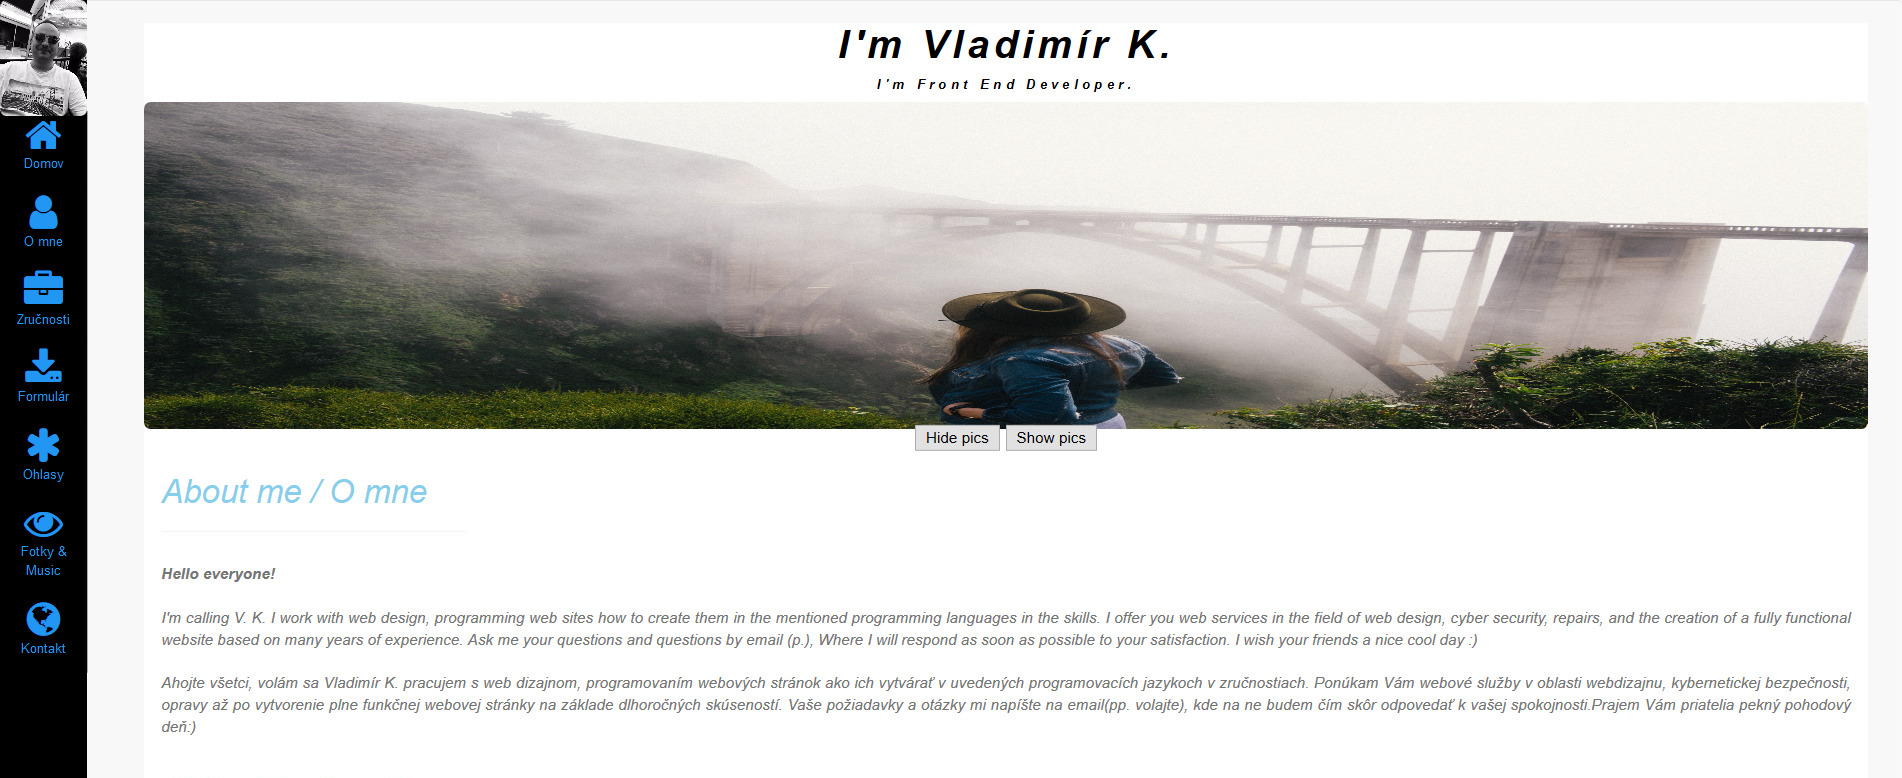
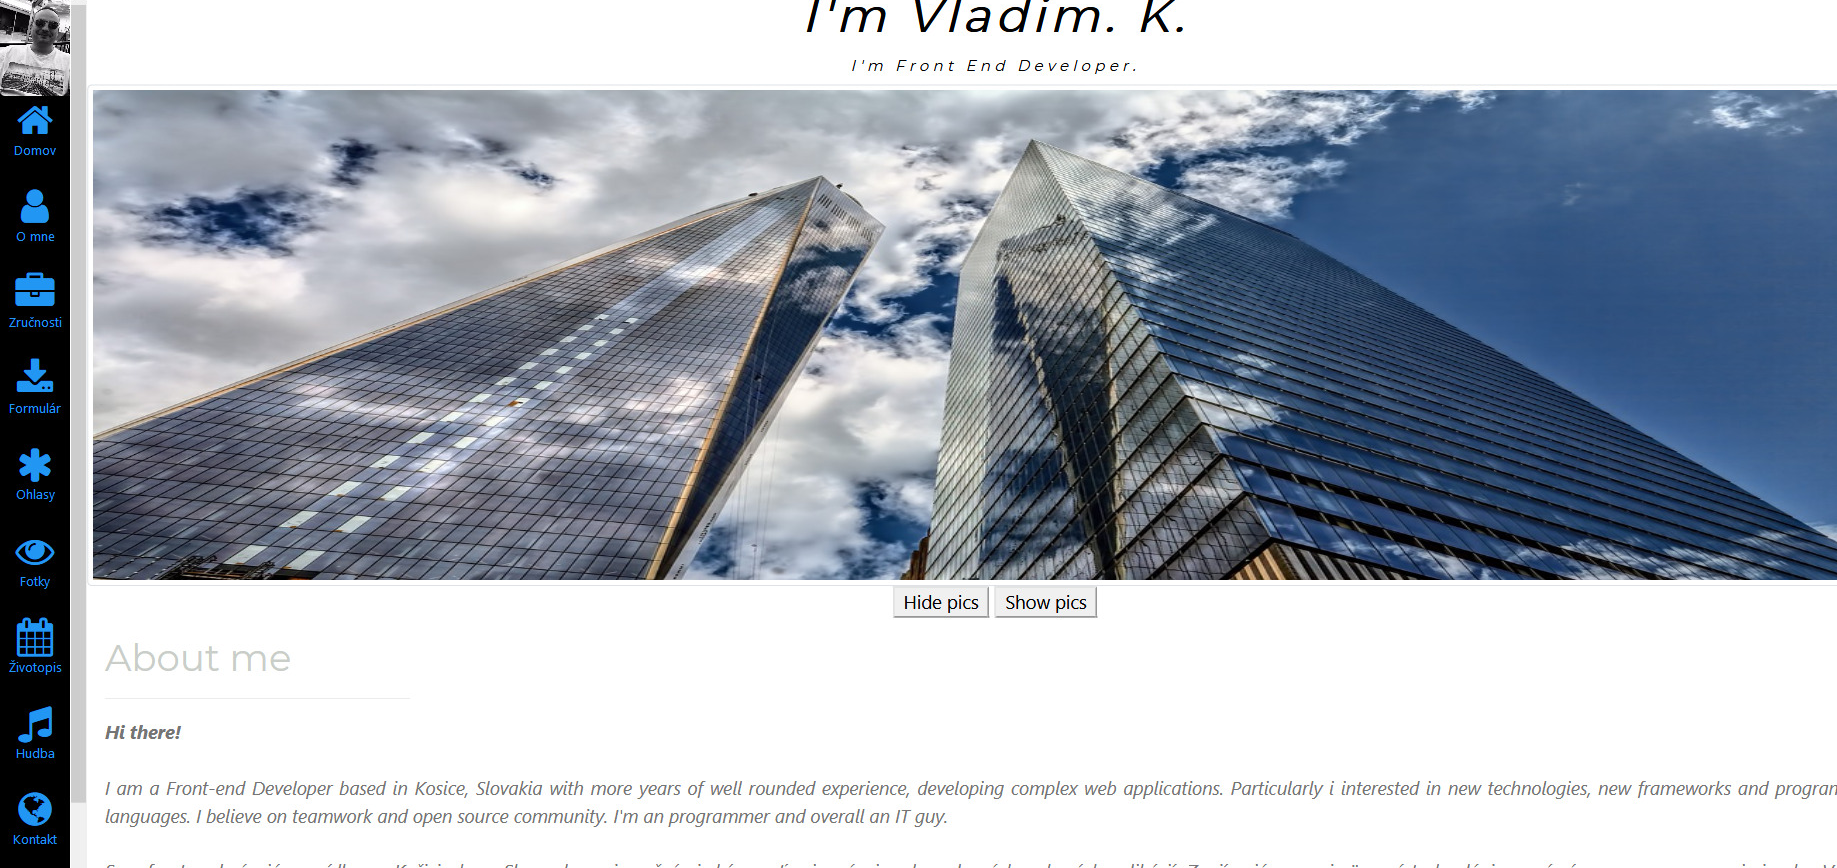
fixit 16.7.2019

diff --git a/index.html b/index.html
@@ -105,7 +105,8 @@ font-family: 'Roboto Condensed', sans-serif;
 		footer {
 			background-color: black;
 			color: white;
-			padding: 10px;
+			padding: 15px;
+
 		}
 
 		/* On small screens, set height to 'auto' for sidenav and grid */
@@ -214,7 +215,7 @@ font-family: 'Roboto Condensed', sans-serif;
 							<li class="dropdown">
 
 							<li class="active"><a class="w3-bar-item w3-button w3-padding-xsmall   w3-hover-yellow w3-text-light-blue " href="#hudba" title=" Viete prečo treba mať kompas a nie hodinky? • Pozrite si webinár ako si správne rozložiť svoj čas podla metody GTD • Vypočujte si Awesome Music z YouTube">
-									<i class="fa fa-youtube w3-large"> Hudba/ Awesome Music!</i></a></li>
+									<i class="fa fa-youtube w3-large"> Hudba/ Music!</i></a></li>
 							<li class="dropdown">
 							<li class="active">
 								<!--a class="w3-bar-item w3-button w3-padding-xsmall w3-hover-yellow w3-text-light-blue " href="#formular" >
@@ -240,9 +241,9 @@ font-family: 'Roboto Condensed', sans-serif;
 									<img src="./Image/Layer%200.png" style="width:58px;height:15px" alt="Firefox Mozilla • Fights for family privacy •Technology"> Firefox Mozilla</a></li>
 							<li>
 							<li>
-								<!--li class="active"><a href="" class="w3-padding-xsmall  w3-text-light-blue w3-hover-yellow" title="Ukážka môjho webu V.K • Vytvorenie funkčnej webovej stránky"><img src="./Image/jolana1.github.io-PageTitle.png" style="width:58px;height:15px" alt="Me"> Ukážka webu V.K.</a></li>
+								<li class="active"><a href="https://jolana1.github.io/ladoweb/#Domov" class="w3-padding-xsmall  w3-text-light-blue w3-hover-yellow" title="Ukážka môjho webu V.K • Vytvorenie funkčnej webovej stránky"><img src="./Image/jolana1.github.io-%C2%A9ladoweb.png" style="width:58px;height:15px" alt="Me"> Ukážka webu V.K.</a></li>
 
-							<li class="active"><a href="" target="_blank" title="Tanzanite-Gems-Cultural-Tourism • Walking cultural tourism • Your all welcome to make a dreams • We do hiking mountain Kilimanjaro  ">
+							<!--li class="active"><a href="" target="_blank" title="Tanzanite-Gems-Cultural-Tourism • Walking cultural tourism • Your all welcome to make a dreams • We do hiking mountain Kilimanjaro  ">
 									<img src="../WebServis/Image/tanzania/IMG_4116.JPG" style="width:58px;height:15px" class="w3-padding-xsmall  w3-text-light-blue w3-hover-yellow img-rounded" alt=""> Tanzanite-Gems-CT</a></li-->
 						</ul>
 					</li>
@@ -267,7 +268,7 @@ font-family: 'Roboto Condensed', sans-serif;
 						</ul>
 
 
-						<!--li><a href="" title="Tanzanite-Gems-Cultural-Tourism • Walking cultural tourism • Your all welcome to make a dreams • We do hiking mountain Kilimanjaro  " border="0"><img src="./Image/Tanzanite.jpg" width="58px" height="15px" class="img-rounded"  > Tanzanite-Gems-Cultural-Tourism</a></li>
+						<li><a href="" title="Tanzanite-Gems-Cultural-Tourism • Walking cultural tourism • Your all welcome to make a dreams • We do hiking mountain Kilimanjaro  " border="0"><img src="./Image/Tanzanite.jpg" width="58px" height="15px" class="img-rounded"  > Tanzanite-Gems-Cultural-Tourism</a></li>
 
 					<li class="active">
 						<a href="#Cenník" class="w3-bar-item w3-padding-xsmall  w3-text-light-blue w3-hover-yellow img-rounded" title="Price list"><span class="glyphicon glyphicon-log-in w3-hover-text-green w3-small"></span> Price list</a></li>
@@ -367,7 +368,7 @@ font-family: 'Roboto Condensed', sans-serif;
 
 
 	<!-- Page Container -->
-	<div class="content" style="max-width:px">
+	<div class="w3-content" style="max-width:px">
 
 <script>
 			$(document).ready(function() {
@@ -482,25 +483,25 @@ font-family: 'Roboto Condensed', sans-serif;
 							<img src="./Image/bg1.jpg" alt="" style="width:100%;height:440px" title="Som Front-end Developer so sídlom v Košiciach na Slovensku s viacročnými skúsenosťami, vyvíjajúc komplexné webové stránky."></div>
 						<div class="item">
 
-				<img src="./Image/bg3.jpg" alt="" style="width:100%;height:440px" title="Vitajte na stránke spoločnosti ©LadoWebServis • ©Ladoweb • Ashampoo • Krížovkársky slovník • Pikatec •  Tanzanite Gems CT • Mozilla firefox "></div>
+				<img src="./Image/bg2.jpg" alt="" style="width:100%;height:440px" title="Vitajte na stránke spoločnosti ©LadoWebServis • ©Ladoweb • Ashampoo • Krížovkársky slovník • Pikatec •  Tanzanite Gems CT • Mozilla firefox "></div>
 
 					<div class="item">
-							<img src="./Image/IMG_1320-EFFECTS.jpg" alt="png" style="width:100%;height:440px" title="•Welcome to the ©LadoWebServis, we offer web design services and the creation of a fully functional website. We build better and more responsive web sites,internet shops, etc. We have many years of experience in web security, as evidenced by our partners and their great products (in the Partners section) .Please check out this site, contact us if you are interested."></div>
+							<img src="./Image/b0ec08912e35316eb093bf286f6c1096.jpg" alt="png" style="width:100%;height:440px" title="•Welcome to the ©LadoWebServis, we offer web design services and the creation of a fully functional website. We build better and more responsive web sites,internet shops, etc. We have many years of experience in web security, as evidenced by our partners and their great products (in the Partners section) .Please check out this site, contact us if you are interested."></div>
 
 						<div class="item">
-							<img src="./Image/photo-1461722936851-13a79b294a5d.jpeg" alt="" style="width:100%;height:440px" title="intro">
+							<img src="./Image/puzzle-3223941_1920.jpg" alt="" style="width:100%;height:440px" title="intro">
 						</div>
 						<div class="item">
 							<img src="./Image/skusenosti.jpg" alt="" style="width:100%;height:440px" title="webtech">
 						</div>
 						<div class="item">
-							<img src="./Image/bg2.jpg" alt="" style="width:100%;height:440px" title="webtech ">
+							<img src="./Image/photo-1461722936851-13a79b294a5d.jpeg" alt="" style="width:100%;height:440px" title="webtech ">
 						</div>
 
 						<div class="item">
-								<img src="./Image/jolana1.github.io-PageTitle.png" alt="" style="width:100%;height:440px" title="ukažka webu ">
+								<img src="./Image/pagePiling-plugin.png" alt="" style="width:100%;height:440px" title="ukažka webu"  >
 						</div><div class="item">
-								<img src="./Image/puzzle-3223941_1920.jpg" alt="" style="width:100%;height:440px" title="puzzle ">
+								<img src="./Image/jolana1.github.io-©ladoweb.png" alt="" style="width:100%;height:440px" title="Som Front-end Developer so sídlom v Košiciach na Slovensku s viacročnými skúsenosťami, vyvíjajúc komplexné webové stránky." >
 						</div>
 
 
@@ -521,7 +522,7 @@ font-family: 'Roboto Condensed', sans-serif;
 
 			<!-- About Section -->
 
-<div class="container-fluid w3-left w3-justify w3-padding-60" id="Onás">
+<div class="w3-content w3-left w3-justify w3-padding-60" id="Onás">
 <h4 class="w3-center w3-hover-white ">
 	<br>
 	<b><strong>Welcome to the ©LadoWebServis, we offer web design services and the creation of a fully functional website. We build better and more responsive web sites,internet shops, etc. We have many years of experience in web security, as evidenced by our partners and their great products (in the Partners section) .Please check out this site , you can choose between Basic or Pro offer.<br> Please contact us if you are interested or liked this web.</strong></b>
@@ -649,7 +650,7 @@ font-family: 'Roboto Condensed', sans-serif;
 
 <br>
 
-				<div class="container-fluid w3-text-grey w3-padding-60" id="Cenník">
+				<div class="w3-content w3-text-grey w3-padding-60" id="Cenník">
 					<h4 class="w3-center w3-hover-white ">WebServis Pricing tables, you can choose between Basic or Pro offer!</h4>
 					<hr style="width:px" class="w3-opacity">
 					<div class="w3-row-padding-24" style="margin:0 -16px">
@@ -710,7 +711,7 @@ font-family: 'Roboto Condensed', sans-serif;
 							<hr style="width:px" class="w3-opacity">
 							<img src="./Image/john_doe.jpg" class="w3-margin w3-circle  w3-text-grey" style="width:100px;padding: .1em;" alt="jdoe">
 							<p><span class="w3-text-grey">John Doe-IT Corporation.</span>
-								"©WebServis takes care of our site for years. They make their site more secure, make our site more attractive, interesting, quick and easy to operate. We highly recommend this company. Thanks a lot WebServis"</p>
+								"©LadoWebServis takes care of our site for years. They make their site more secure, make our site more attractive, interesting, quick and easy to operate. We highly recommend this company. Thanks a lot WebServis"</p>
 
 
 
@@ -754,20 +755,20 @@ font-family: 'Roboto Condensed', sans-serif;
 						<!-- Portfolio Music Section -->
 						<div>
 							<div class="w3-padding- w3-margin- w3-section w3-justify w3-text-grey" id="hudba">
-								<h2 class="w3-text-light-blue w3-hover-white"> Feeling Happy YouTube Music!</h2>
+								<h2 class="w3-text-light-blue w3-hover-white"> YouTube Musicmix by DJs!</h2>
 								<hr style="width:px" class="w3-opacity">
 								<div class="w3-row-padding" style="margin:0 -16px">
 
 									<div class="w3-half container-fluid">
 
-										<!--img src="./Image/nature-3151869_1920.jpg" alt="" style="width:100%" height="527"-->
+										<!--img src="./Image/nature-3151869_1920.jpg" alt="" style="width:100%" height="527">
 										<iframe src="https://youtube.com/embed/Z_qBmPW-d5M?autoplay=0"  width="100%" height="190" frameborder="0"  style="border:0" allowfullscreen align="" scrolling="no"  name="Funky House Classic vinyl mix">
-										</iframe>
+										</iframe-->
 										<iframe src="https://youtube.com/embed/INByJvavIww?autoplay=0" width="100%" height="190" frameborder="0" style="border:0" allowfullscreen align="" scrolling="no" name="DJ S"></iframe>
 
 
 
-										<iframe src="https://youtube.com/embed/Ki11dfkJYXU?autoplay=0" width="100%" height="190" frameborder="0" style="border:0" allowfullscreen align="" scrolling="no" name="Best of 70's 80's Remixes">
+										<iframe src="https://youtube.com/embed/ElDPIJjAWfY?autoplay=0" width="100%" height="190" frameborder="0" style="border:0" allowfullscreen align="" scrolling="no" name="Bangin Soulful House Mix">
 										</iframe>
 										<!--iframe width="100%" height="190" src="https://youtube.com/embed/ICTXGEACsPU?autoplay=0" frameborder="0" align="" scrolling="no" name="Funky Soulful Grooves Mix">
 								</iframe-->
@@ -779,10 +780,10 @@ font-family: 'Roboto Condensed', sans-serif;
 									<div class="w3-half container-fluid">
 
 
-										<iframe src="https://www.youtube.com/embed/9-bcnTGy9S8?autoplay=0"  data-toggle="tooltip" title="Webinár" width="100%" height="190" frameborder="0" style="border:0" allowfullscreen align="" scrolling="no" name="Prečo treba mať kompas a nie hodinky?">
+										<!--iframe src="https://www.youtube.com/embed/9-bcnTGy9S8?autoplay=0"  data-toggle="tooltip" title="Webinár" width="100%" height="190" frameborder="0" style="border:0" allowfullscreen align="" scrolling="no" name="Prečo treba mať kompas a nie hodinky?">
 										</iframe>
-										<!--img src="./Image/x17-detail-050.jpg" alt="" style="width:100%"-->
-										<!--img src="./Image/x17-015.jpg" alt="" style="width:100%"-->
+										<img src="./Image/x17-detail-050.jpg" alt="" style="width:100%">
+										<img src="./Image/x17-015.jpg" alt="" style="width:100%"-->
 										<iframe src="https://youtube.com/embed/nxNmJI8cWIs?autoplay=0" width="100%" height="190" frameborder="0" style="border:0" allowfullscreen align="" scrolling="no" name="Feeling Happy ' Stay See Summer Mix 2019">
 										</iframe>
 
@@ -861,6 +862,8 @@ div {
     <label for="lname">Last Name</label>
     <input type="text" id="lname" name="lastname" placeholder="Priezvisko.." required name="lname">
 <p><input class="w3-input w3-padding-10" type="text" placeholder="Váš text v prípade problémov odošli email!" required name="Message"></p>
+	 <br><label>Date<br></label>
+	<input type="date" name="date">
     <label for="country">Country</label>
     <select id="country" name="country">
       <option value="slovakia">Slovakia</option>
@@ -937,7 +940,7 @@ div {
 								<div class="salesforce_w2l_lead "><section class="form-holder clearfix"><div class="wpcf7"><form id="sf_form_salesforce_w2l_lead_2" class="wpcf7-form top-aligned" method="post" action="#sf_form_salesforce_w2l_lead_2"><p class="sf_required_fields_msg" id="requiredfieldsmsg"><sup><span class="required">*</span></sup> These fields are required.</p><div class="sf_field sf_field_first_name sf_type_text"><p>	<label class="w2llabel required  text" for="sf_first_name">First name: <sup><span class="required">*</span></sup></label><span class="wpcf7-form-control-wrap">	<input type="text" placeholder="" value="" id="sf_first_name" class="wpcf7-form-control wpcf7-text wpcf7-validates-as-required required" name="first_name"></span></p><div class="clearfix"></div></div><div class="sf_field sf_field_last_name sf_type_text"><p>	<label class="w2llabel required  text" for="sf_last_name">Last name: <sup><span class="required">*</span></sup></label><span class="wpcf7-form-control-wrap">	<input type="text" placeholder="" value="" id="sf_last_name" class="wpcf7-form-control wpcf7-text wpcf7-validates-as-required required" name="last_name"></span></p><div class="clearfix"></div></div><div class="sf_field sf_field_email sf_type_text"><p>	<label class="w2llabel required  text" for="sf_email">Email: <sup><span class="required">*</span></sup></label><span class="wpcf7-form-control-wrap">	<input type="text" placeholder="" value="" id="sf_email" class="wpcf7-form-control wpcf7-text wpcf7-validates-as-required required" name="email"></span></p><div class="clearfix"></div></div><div class="sf_field sf_field_phone sf_type_text"><p>	<label class="w2llabel   text" for="sf_phone">Phone:</label><span class="wpcf7-form-control-wrap">	<input type="text" placeholder="" value="" id="sf_phone" class="wpcf7-form-control wpcf7-text" name="phone"></span></p><div class="clearfix"></div></div><div class="sf_field sf_field_description sf_type_textarea"><p>	<label class="w2llabel required  textarea" for="sf_description">Message: <sup><span class="required">*</span></sup></label><span class="wpcf7-form-control-wrap">		<textarea id="sf_description" class="wpcf7-form-control wpcf7-textarea wpcf7-validates-as-required required" name="description" placeholder=""></textarea></span></p><div class="clearfix"></div></div>	<input type="text" name="message" class="w2linput" value="" style="display: none;">	<input type="hidden" name="form_id" class="w2linput" value="2">	<p class="punt"><input type="submit" name="w2lsubmit" class="wpcf7-form-control wpcf7-submit btn" value="Submit"></p></form></div></section></div-->
 								<br>
                                     <img style="border:none;" cellpadding="0" cellspacing="0" src="./Image/sk.png" height="20"><br><br>Košice
-									<i class="fa fa-phone fa-fw w3-hover-text-orange w3-large w3-margin-left" data-toggle="tooltip" title="Zavolajte"></i>6711924
+									<a class="fa fa-phone fa-fw w3-hover-text-orange w3-large w3-margin-left" data-toggle="tooltip" title="Zavolajte"></a>+421556711924
 									<a class="fa fa-envelope fa-fw w3-hover-text-green w3-large w3-margin-left" href="mailto:ksenicv@gmail.com" data-toggle="tooltip" title="Pošli email"></a>Email
 
 							</div>
@@ -957,16 +960,16 @@ div {
 
 							<!-- Footer section -->
 
-							<footer class="w3-container-fluid w3-padding-60 w3-black w3-text-grey w3-center " id="footer">
+							<footer class="w3-padding-20 w3-black w3-text-grey w3-center " id="footer">
 						<a class="fa fa-facebook-official w3-hover-text-white w3-large" href="https://www.facebook.com/vladimir.ksenic" target="_blank">&nbsp;&nbsp;</a>
-									<a href="https://twitter.com/ladow11" target="_blank">
+									<!--a href="https://twitter.com/ladow11" target="_blank">
 												<i class="fa fa-twitter w3-hover-text-white w3-large"></i></a>
 									<a href="https://www.linkedin.com/in/vladim%C3%ADr-kseni%C4%8D-a084a2161/" target="_blank">
-										<i class="fa fa-linkedin w3-hover-text-white w3-large"></i>&nbsp;&nbsp;</a>
-									<!--a href="https://github.com/settings/profile" target="_blank">
-										<!--i class="fa fa-github w3-hover-text-white w3-large"></i>&nbsp;&nbsp;</a>
+										<i class="fa fa-linkedin w3-hover-text-white w3-large"></i>&nbsp;&nbsp;</a-->
+									<a href="https://github.com/settings/profile" target="_blank">
+										<i class="fa fa-github w3-hover-text-white w3-large"></i>&nbsp;&nbsp;</a>
 									<a href="https://www.youtube.com/channel/UCX3EKD2gPCW81IiBCWDeh-Q?view_as=subscriber" target="_blank">
-										<i class="fa fa-youtube w3-hover-text-white w3-large"></i>&nbsp;&nbsp;</a-->
+										<i class="fa fa-youtube w3-hover-text-white w3-large"></i>&nbsp;&nbsp;</a>
 									<a href="https://www.mixcloud.com/vladimír-ksenič/favorites/" target="_blank">
 										<i class="fa fa-mixcloud w3-hover-text-white w3-large"></i>&nbsp;&nbsp;</a>
 									<b class="w3-center w3-margin w3-padding-34 w3-hover-text-white">
